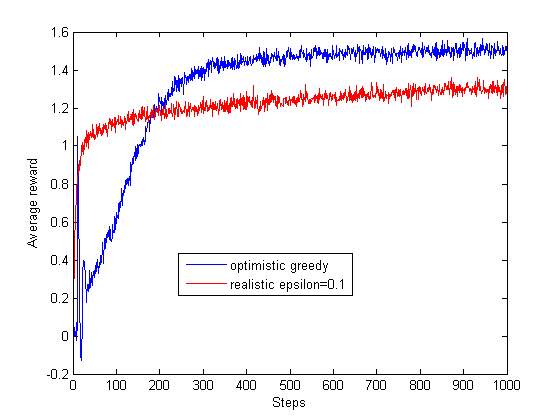
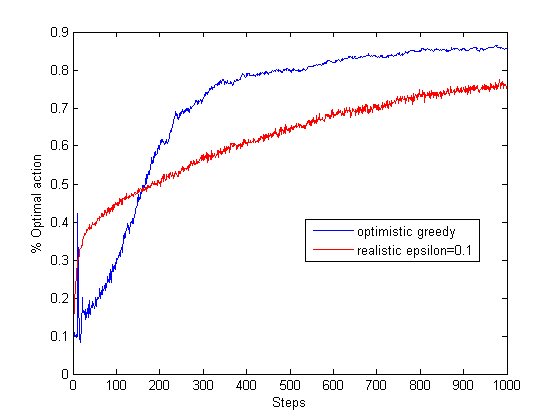
Clean

diff --git a/Programming examples for the book - Reinforcement learning - an introduction/Examples/Chapter 2.5/Matlab/ten_armed_bandit_main.m b/Programming examples for the book - Reinforcement learning - an introduction/Examples/Chapter 2.5/Matlab/ten_armed_bandit_main.m
@@ -3,8 +3,8 @@
 %optimistic greedy
 [rewards1,optimalActPercentage1]=ten_armed_bandit_testbed(0,5);
 
-%realistic epsilon greedy, epsilon=0.01;
-[rewards2,optimalActPercentage2]=ten_armed_bandit_testbed(0.01,0);
+%realistic epsilon greedy, epsilon=0.1;
+[rewards2,optimalActPercentage2]=ten_armed_bandit_testbed(0.1,0);
 
 plot(rewards1);
 hold on;
